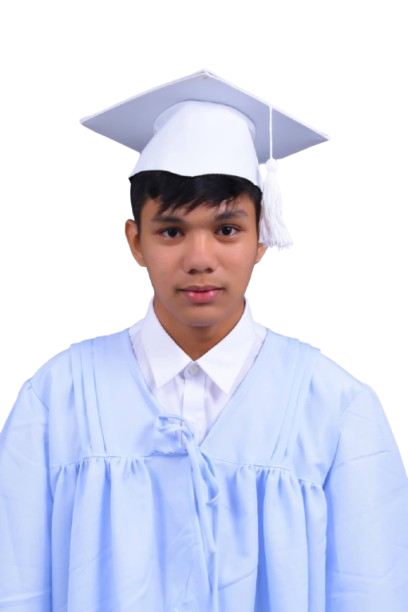
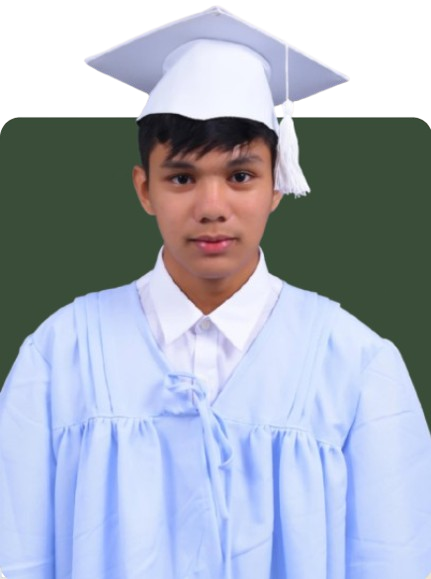
Home Section Update

diff --git a/style.css b/style.css
@@ -2,7 +2,7 @@
 body {
     margin: 0;
     font-family: Arial, sans-serif;
-    scroll-behavior: smooth; /* Enables smooth scrolling */
+    scroll-behavior: smooth; 
 }
 
 /* Navigation Bar */
@@ -38,16 +38,121 @@ header a:hover {
 
 /* Section Styling */
 .page {
-    height: 960px; /* Each section is 960px high */
+    height: 960px; 
     display: flex;
     justify-content: center;
     align-items: center;
     text-align: center;
 }
 
+/* Home Section */
 #home {
-    background-color: #f0f8f8;
+    background: linear-gradient(135deg, rgb(236, 227, 206), rgb(224, 214, 190));
+    position: relative;
+    overflow: hidden; 
 }
+
+#home::before {
+    content: '';
+    position: absolute;
+    top: -50px;
+    left: -50px;
+    width: 200px;
+    height: 200px;
+    background: rgba(255, 255, 255, 0.2);
+    border-radius: 50%;
+    filter: blur(80px);
+    z-index: 0;
+}
+
+#home .home-content {
+    display: flex;
+    width: 100%;
+    max-width: 1200px;
+    margin: auto;
+    position: relative; 
+    z-index: 1;
+}
+
+#home .text {
+    flex: 1.2; 
+    max-width: 50%;
+    padding: 0 20px;
+}
+
+#home .text h1 {
+    font-size: 3rem; 
+    font-weight: bold; 
+    margin-bottom: 30px; 
+    color: #2b4a2b; 
+    white-space: nowrap; 
+}
+
+#home .text p {
+    font-size: 1.25rem;
+    font-weight: 300; 
+    line-height: 1.8; 
+    margin-bottom: 20px;
+    color: #555;
+}
+
+#home .image {
+    flex: 1; 
+    max-width: 50%;
+    display: flex;
+    justify-content: center; 
+    padding-left: 30px; 
+}
+
+#home .image img {
+    width: 80%; 
+    max-width: 400px;
+    border-radius: 10px; 
+    transition: transform 0.3s; 
+}
+
+#home .image img:hover {
+    transform: scale(1.05); 
+}
+
+.cta-button {
+    display: inline-block;
+    margin-top: 20px;
+    padding: 10px 20px;
+    background-color: #2b4a2b; 
+    color: white;
+    font-size: 1.2rem;
+    border: none;
+    border-radius: 5px;
+    text-decoration: none;
+    transition: background-color 0.3s;
+}
+
+.cta-button:hover {
+    background-color: #4d734d; 
+}
+
+/* Responsive Design */
+@media (max-width: 768px) {
+    #home .home-content {
+        flex-direction: column; 
+        text-align: center;
+    }
+
+    #home .text, #home .image {
+        max-width: 100%;
+        flex: none;
+    }
+
+    #home .image img {
+        width: 60%; 
+        margin: 20px auto; 
+    }
+
+    #home .text h1 {
+        white-space: normal; 
+    }
+}/* Home Section Ending*/
 
 #interests {
     background-color: #e8f4ea;

diff --git a/index.html b/index.html
@@ -21,12 +21,20 @@
     </header>
 
     <!-- Home Section -->
-    <section id="home" class="page">
-        <h1>Hi, I’m John Cody Pobletin!</h1>
-        <p>I’m an IT professional and web developer dedicated to crafting innovative websites and applications.</p>
-        <img src="profile.png" alt="John Cody Pobletin">
-        <p>Explore my work and let’s connect.</p>
-    </section>
+   <section id="home" class="page">
+    <div class="home-content">
+        <div class="text">
+            <h1>Hi, I’m John Cody Pobletin!</h1>
+            <p>I’m an IT professional and web developer dedicated to crafting innovative websites and applications.</p>
+            <p>Explore my work and let’s connect.</p>
+            <a href="#contact" class="cta-button" aria-label="Navigate to contact section">Let’s Connect</a>
+        </div>
+        <div class="image">
+            <img src="profile.png" alt="John Cody Pobletin">
+        </div>
+    </div>
+</section>
+
 
     <!-- Interests Section -->
     <section id="interests" class="page">
